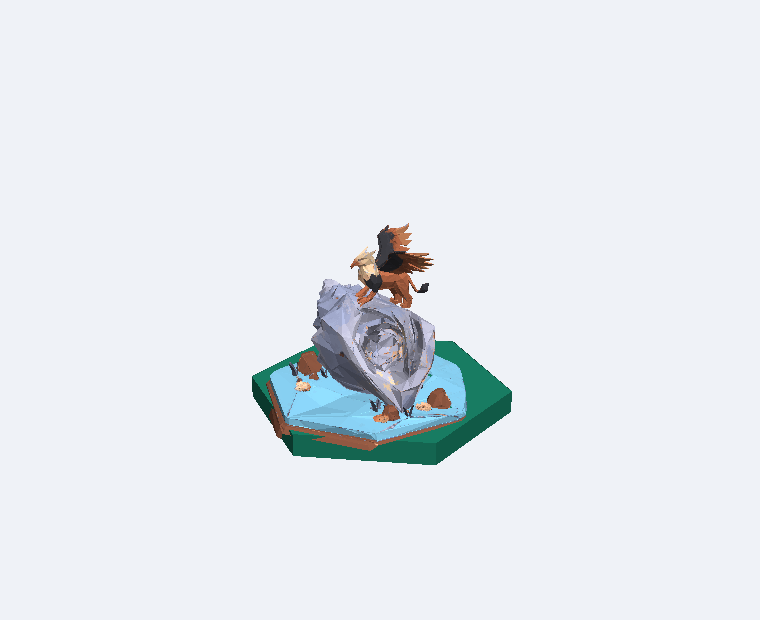
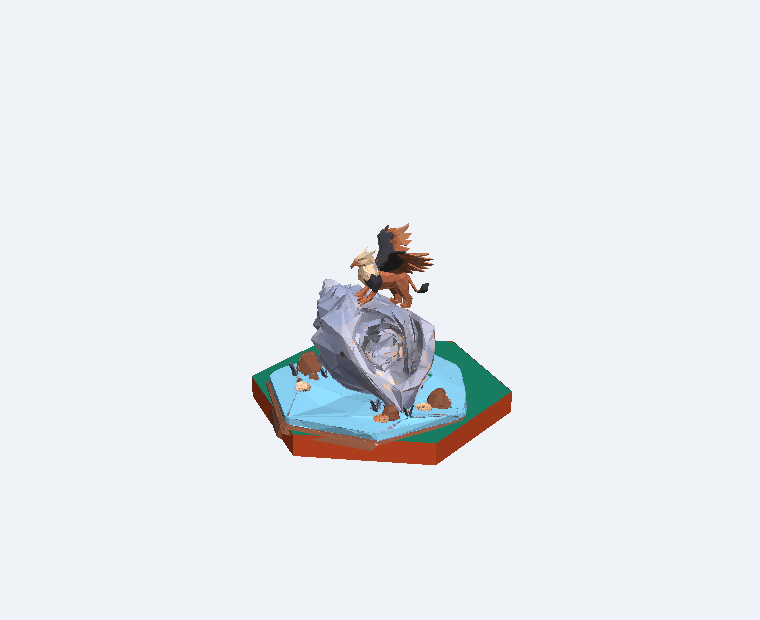
feat: generated tiles get the Kenney dirt skirt by default
Every stock Kenney tile shows the same terracotta band beneath its surface --
#f1976c, measured off dirt.glb's top face and the skirt under grass.glb. Generated
tiles kept whatever --rebuild-base SAMPLED from the artwork's outer wall, which is
why pegasus came out green-sided and the story tiles never quite sat in the same
world as the terrain around them.

fix-materials.mjs now defaults the prism side to that dirt colour (--keep-side
opts out, --base-side overrides), so every tile normalized from here on gets it.
Applied retroactively to the 11 existing story tiles.

Two that could not take it: upside-down waterfall and 0 - mother tree2 have no
hexBase mesh -- they predate --rebuild-base, so their sides are part of the
artwork texture rather than a material. Re-normalizing them would mean redoing
work Kobe has already approved, so they keep their own bases.

The normalizer preview now also exposes a base-side picker for the exceptions,
e.g. a stone skirt under a mountain.

Changed region(s): [[0.3632, 0.6435, 0.6961, 0.7661], [0.3329, 0.6129, 0.3632, 0.6742]]

diff --git a/app/(admin)/admin/normalizer/page.tsx b/app/(admin)/admin/normalizer/page.tsx
@@ -33,11 +33,15 @@ interface Job {
 // Kenney surface colours, measured off the kit — the usual choices for a base top.
 const BASE_COLOURS = [
   { label: 'Grass',  hex: '#48c1a3' },
+  { label: 'Dirt',   hex: '#f1976c' },
   { label: 'Water',  hex: '#8fdbff' },
   { label: 'Sand',   hex: '#e6cfa1' },
   { label: 'Stone',  hex: '#9fa3b5' },
-  { label: 'Dirt',   hex: '#be9b8b' },
 ]
+
+// The skirt under every Kenney tile. Default for generated tiles so they sit in
+// the same world as the stock ones.
+const KENNEY_DIRT = '#f1976c'
 
 // Measured off the Kenney kit — see the tile geometry contract in CLAUDE.md.
 const SURFACES = [
@@ -340,12 +344,14 @@ function AdjustPanel({
   onDecide: (id: string, status: 'accepted' | 'failed') => void
 }) {
   const [topColor, setTopColor] = useState<string | null>(job.base_top_color)
+  const [sideColor, setSideColor] = useState<string | null>(job.base_side_color)
   const [shiftX, setShiftX] = useState(String(job.shift_x ?? 0))
   const [shiftZ, setShiftZ] = useState(String(job.shift_z ?? 0))
   const [pct, setPct] = useState(String(Math.round(((job.top_scale ?? 1) - 1) * 100)))
 
   const dirty =
     topColor !== job.base_top_color ||
+    sideColor !== job.base_side_color ||
     Number(shiftX) !== (job.shift_x ?? 0) ||
     Number(shiftZ) !== (job.shift_z ?? 0) ||
     Number(pct) !== Math.round(((job.top_scale ?? 1) - 1) * 100)
@@ -375,6 +381,16 @@ function AdjustPanel({
         </button>
       </div>
 
+      <div className="flex items-center gap-2 flex-wrap">
+        <span className="text-[11px] text-gray-400 w-24">Base side</span>
+        {BASE_COLOURS.map(c => (
+          <button key={c.hex} title={`${c.label} ${c.hex}`} onClick={() => setSideColor(c.hex)}
+            className={`w-6 h-6 rounded border-2 ${(sideColor ?? KENNEY_DIRT) === c.hex ? 'border-white' : 'border-gray-700'}`}
+            style={{ background: c.hex }} />
+        ))}
+        <span className="text-[11px] text-gray-600">defaults to dirt, like every Kenney tile</span>
+      </div>
+
       <div className="flex items-end gap-3 flex-wrap">
         <label className="text-[11px] text-gray-400">
           Shift X
@@ -392,6 +408,7 @@ function AdjustPanel({
           disabled={!dirty || !valid}
           onClick={() => onApply(job, {
             base_top_color: topColor,
+            base_side_color: sideColor,
             shift_x: num(shiftX),
             shift_z: num(shiftZ),
             top_scale: 1 + num(pct) / 100,
@@ -403,7 +420,7 @@ function AdjustPanel({
         {dirty && (
           <button
             onClick={() => {
-              setTopColor(job.base_top_color)
+              setTopColor(job.base_top_color); setSideColor(job.base_side_color)
               setShiftX(String(job.shift_x ?? 0)); setShiftZ(String(job.shift_z ?? 0))
               setPct(String(Math.round(((job.top_scale ?? 1) - 1) * 100)))
             }}
